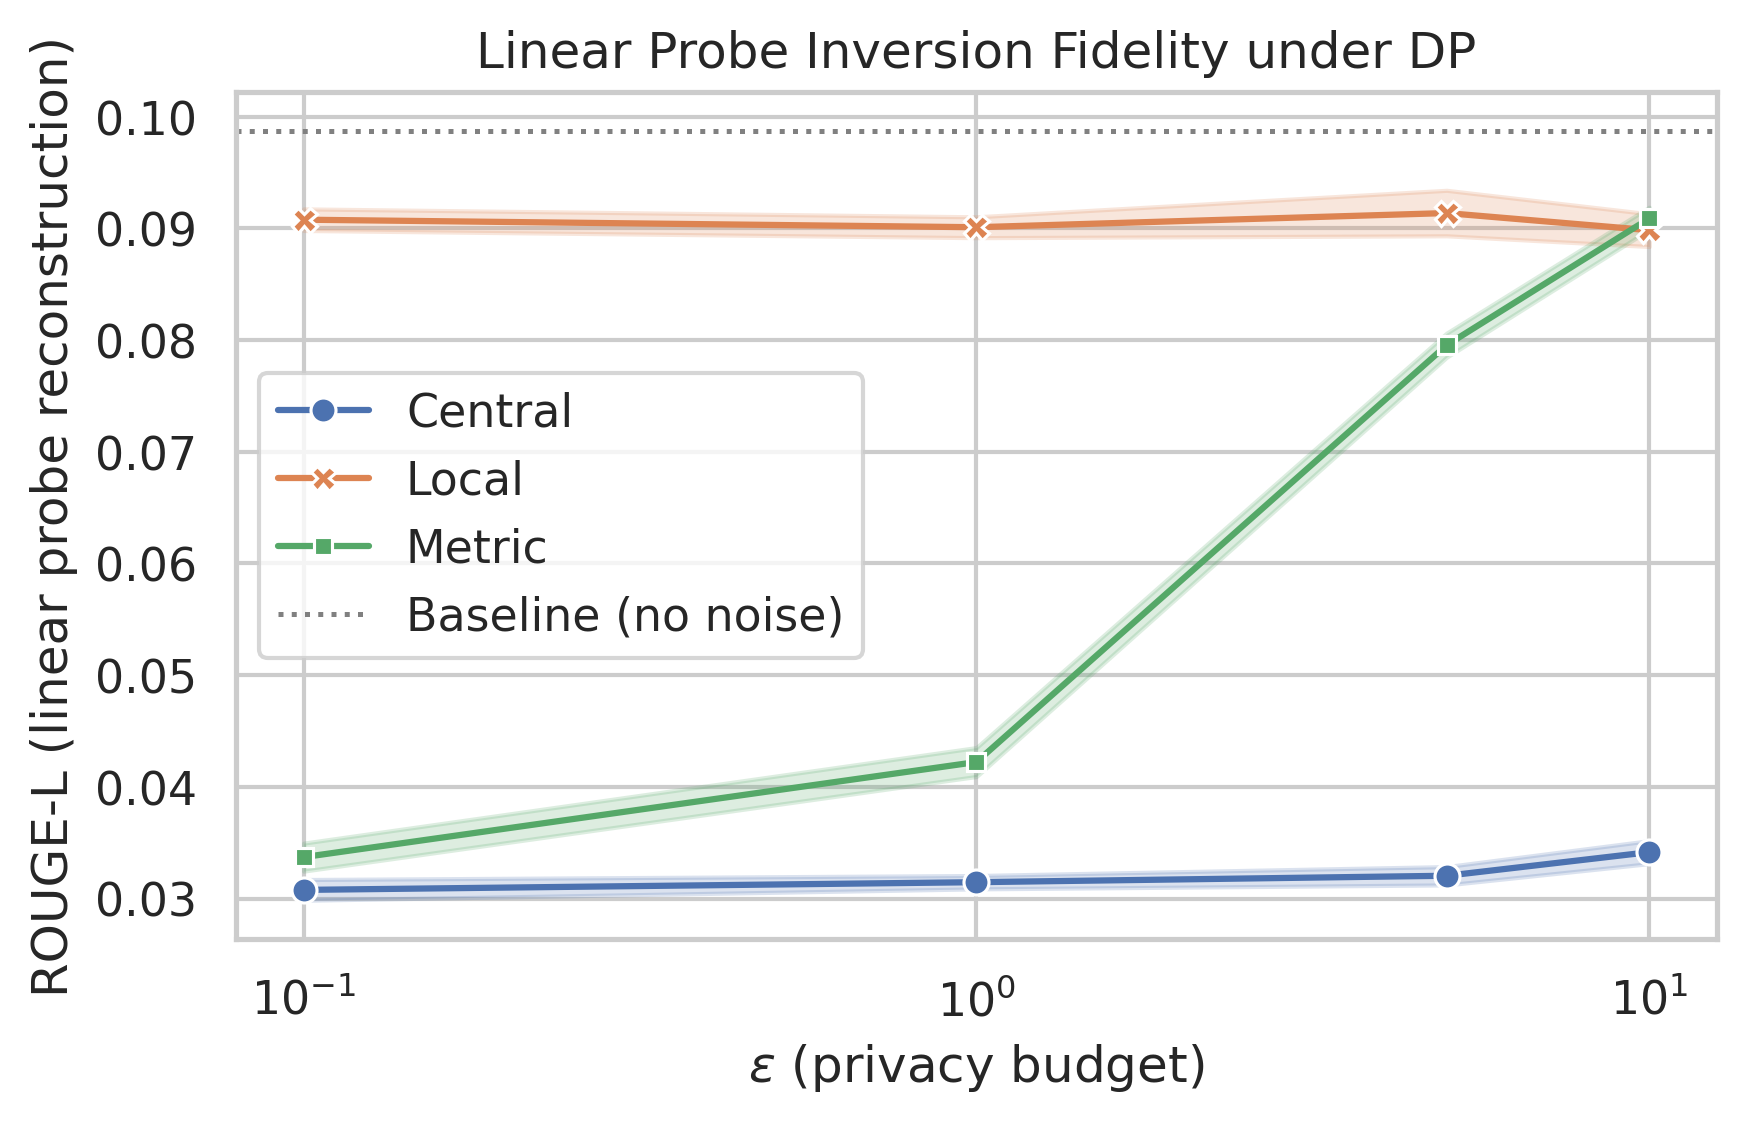
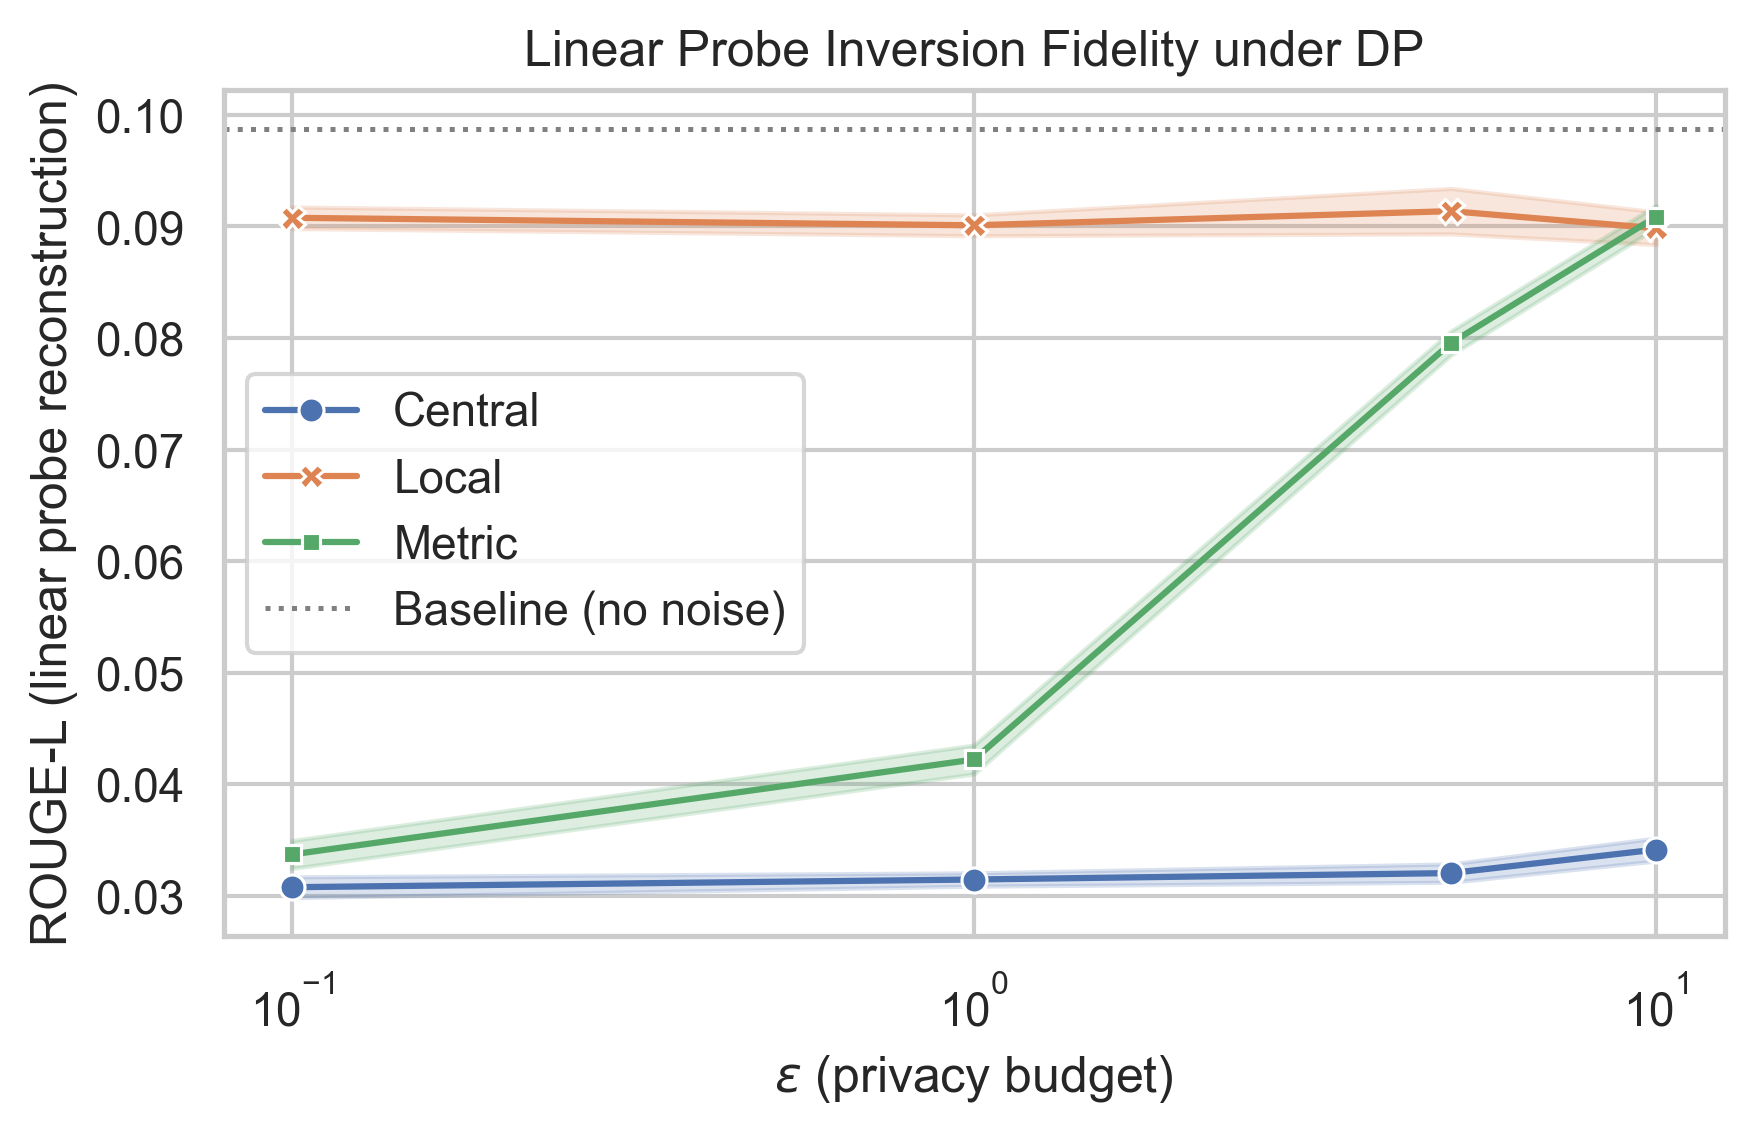
fix: remove TODO comments, update Discussion k-NN sentence, regenerate figures from canonical results

diff --git a/docs/main.tex b/docs/main.tex
@@ -1,4 +1,3 @@
-% Academic manuscript skeleton: fill TODOs before submission.
 % Compile from this directory, e.g.: pdflatex main.tex
 \documentclass[11pt, a4paper]{article}
 
@@ -18,8 +17,7 @@
   Victor Okoroafor\and
   Ifeanyi Omonigho Odugo\and
   Gopal Krishna\and
-  Niramay Roopesh Kolalle\\[0.5em]
-  \normalsize University of Basel
+  Niramay Roopesh Kolalle\thanks{University of Basel, Switzerland.}%
 }
 \date{\today}
 
@@ -123,9 +121,6 @@ data-independent functions of the mechanism output and therefore preserve the
 $(\epsilon, \delta)$ guarantee without additional privacy loss, by the
 post-processing theorem~\cite[Prop.~2.1]{dwork2014algorithmic}.
 
-% TODO (Niramay): Cite the formal local DP (or LDP) variant this architecture is meant
-% to implement (e.g. randomized response vs.\ Gaussian) if you add a full proof plan.
-
 \section{Evaluation Framework}
 \label{sec:framework}
 
@@ -134,7 +129,7 @@ privatized embeddings, without yet coupling to a generative LLM: retrieval simul
 RAG by nearest-neighbor match on the FAISS index, and BERTScore treats those strings
 as synthetic ``candidates.''
 
-\subsection{Likelihood Ratio Test (LiRA)} % TODO (Niramay): Tighten notation.
+\subsection{Likelihood Ratio Test (LiRA)}
 Membership inference attacks, first introduced by \citet{shokri2017membership}, 
 aim to determine whether a given record was used in training. A shadow linear 
 classifier (logistic regression) on embeddings mirrors the target model, with 
@@ -196,10 +191,6 @@ Baseline TPR is $0.0017$. Central DP achieves TPR $= 0.000$ for all levels of $\
   \label{fig:probe}
 \end{figure}
 
-% TODO (Niramay): Analyze the tradeoff curves. At what $\epsilon$ does Central DP
-% become useless? Does Local DP provide better or worse utility at the same privacy
-% bound? Refer to Figures \ref{fig:util}--\ref{fig:inv}.
-
 \begin{table}[h]
   \centering
   \begin{tabular}{@{}lccc@{}}
@@ -225,7 +216,7 @@ In the case of Metric DP it is a different story. At $\varepsilon=0.1$, it is mo
 
 Medical use is a case where privacy is not negotiable -- this should be deployed using Central DP. It has an inversion resistance of ROUGE-L $\approx 0.21$ and zero MIA success over the range of $\varepsilon$ values tested, with less than 2\% utility degradation. The epsilon choice is operationally free: for a higher epsilon (for instance $\varepsilon=1.0$) a practitioner gets the same protection as a smaller epsilon, but with smaller noise and a small improvement in retrieval quality. Viability of Metric DP hinges on being able to manage $\varepsilon$ to be significantly below $1.0$, and on the deployment scenario allowing the risk of residual inversion ($\approx 0.24$ ROUGE-L). It should not be used on sensitive corpora for any $\varepsilon \geq 5$.
 
-A few inferences must be made from what is almost a zero MIA TPR. \citet{carlini2022membership} explicitly warn that a low TPR at $0.1\%$ FPR does not necessarily imply a privacy guarantee, as it may simply reflect an underpowered attack. While the original softmax classifier setup of LiRA was based on logistic regression, a logistic regression shadow classifier is used and trained on raw embeddings here. The values of TPR shown here should be thought of as a reasonably good lower bound of the true worst-case leakage from the study. A more solid embedding-space MIA baseline (e.g., using k-NN distance ratios as a membership score, following Carlini et al.\ for representation learning) is left for future work and might provide a more solid privacy bound.
+A few inferences must be made from what is almost a zero MIA TPR. \citet{carlini2022membership} explicitly warn that a low TPR at $0.1\%$ FPR does not necessarily imply a privacy guarantee, as it may simply reflect an underpowered attack. While the original softmax classifier setup of LiRA was based on logistic regression, a logistic regression shadow classifier is used and trained on raw embeddings here. The values of TPR shown here should be thought of as a reasonably good lower bound of the true worst-case leakage from the study. We therefore complement LiRA with a k-NN distance-ratio baseline attack that requires no classifier training and scores membership purely from geometric proximity to shadow member and non-member banks~\cite{carlini2022membership}. Both attacks yield near-zero TPR under Central DP across all $\varepsilon$ values, providing two independent lines of evidence that Central DP embeddings do not leak exploitable membership signals.
 
 Simply from a deployment point of view, when $\varepsilon=1.0$, an adversary issuing $1{,}000$ membership requests to a deployed medical RAG system would correctly identify zero patient consultation records at the $0.1\%$ FPR operating point. The adversary of the unprotected baseline will find approximately $2$ records. With Metric DP, the result was a ROUGE-L score of $0.950$ at $\varepsilon=10.0$ -- meaning that $95\%$ of the lexical content of a retrieved consultation could be reconstructed from the stored embedding -- definitely not acceptable in any GDPR or HIPAA regulated environment.
 
